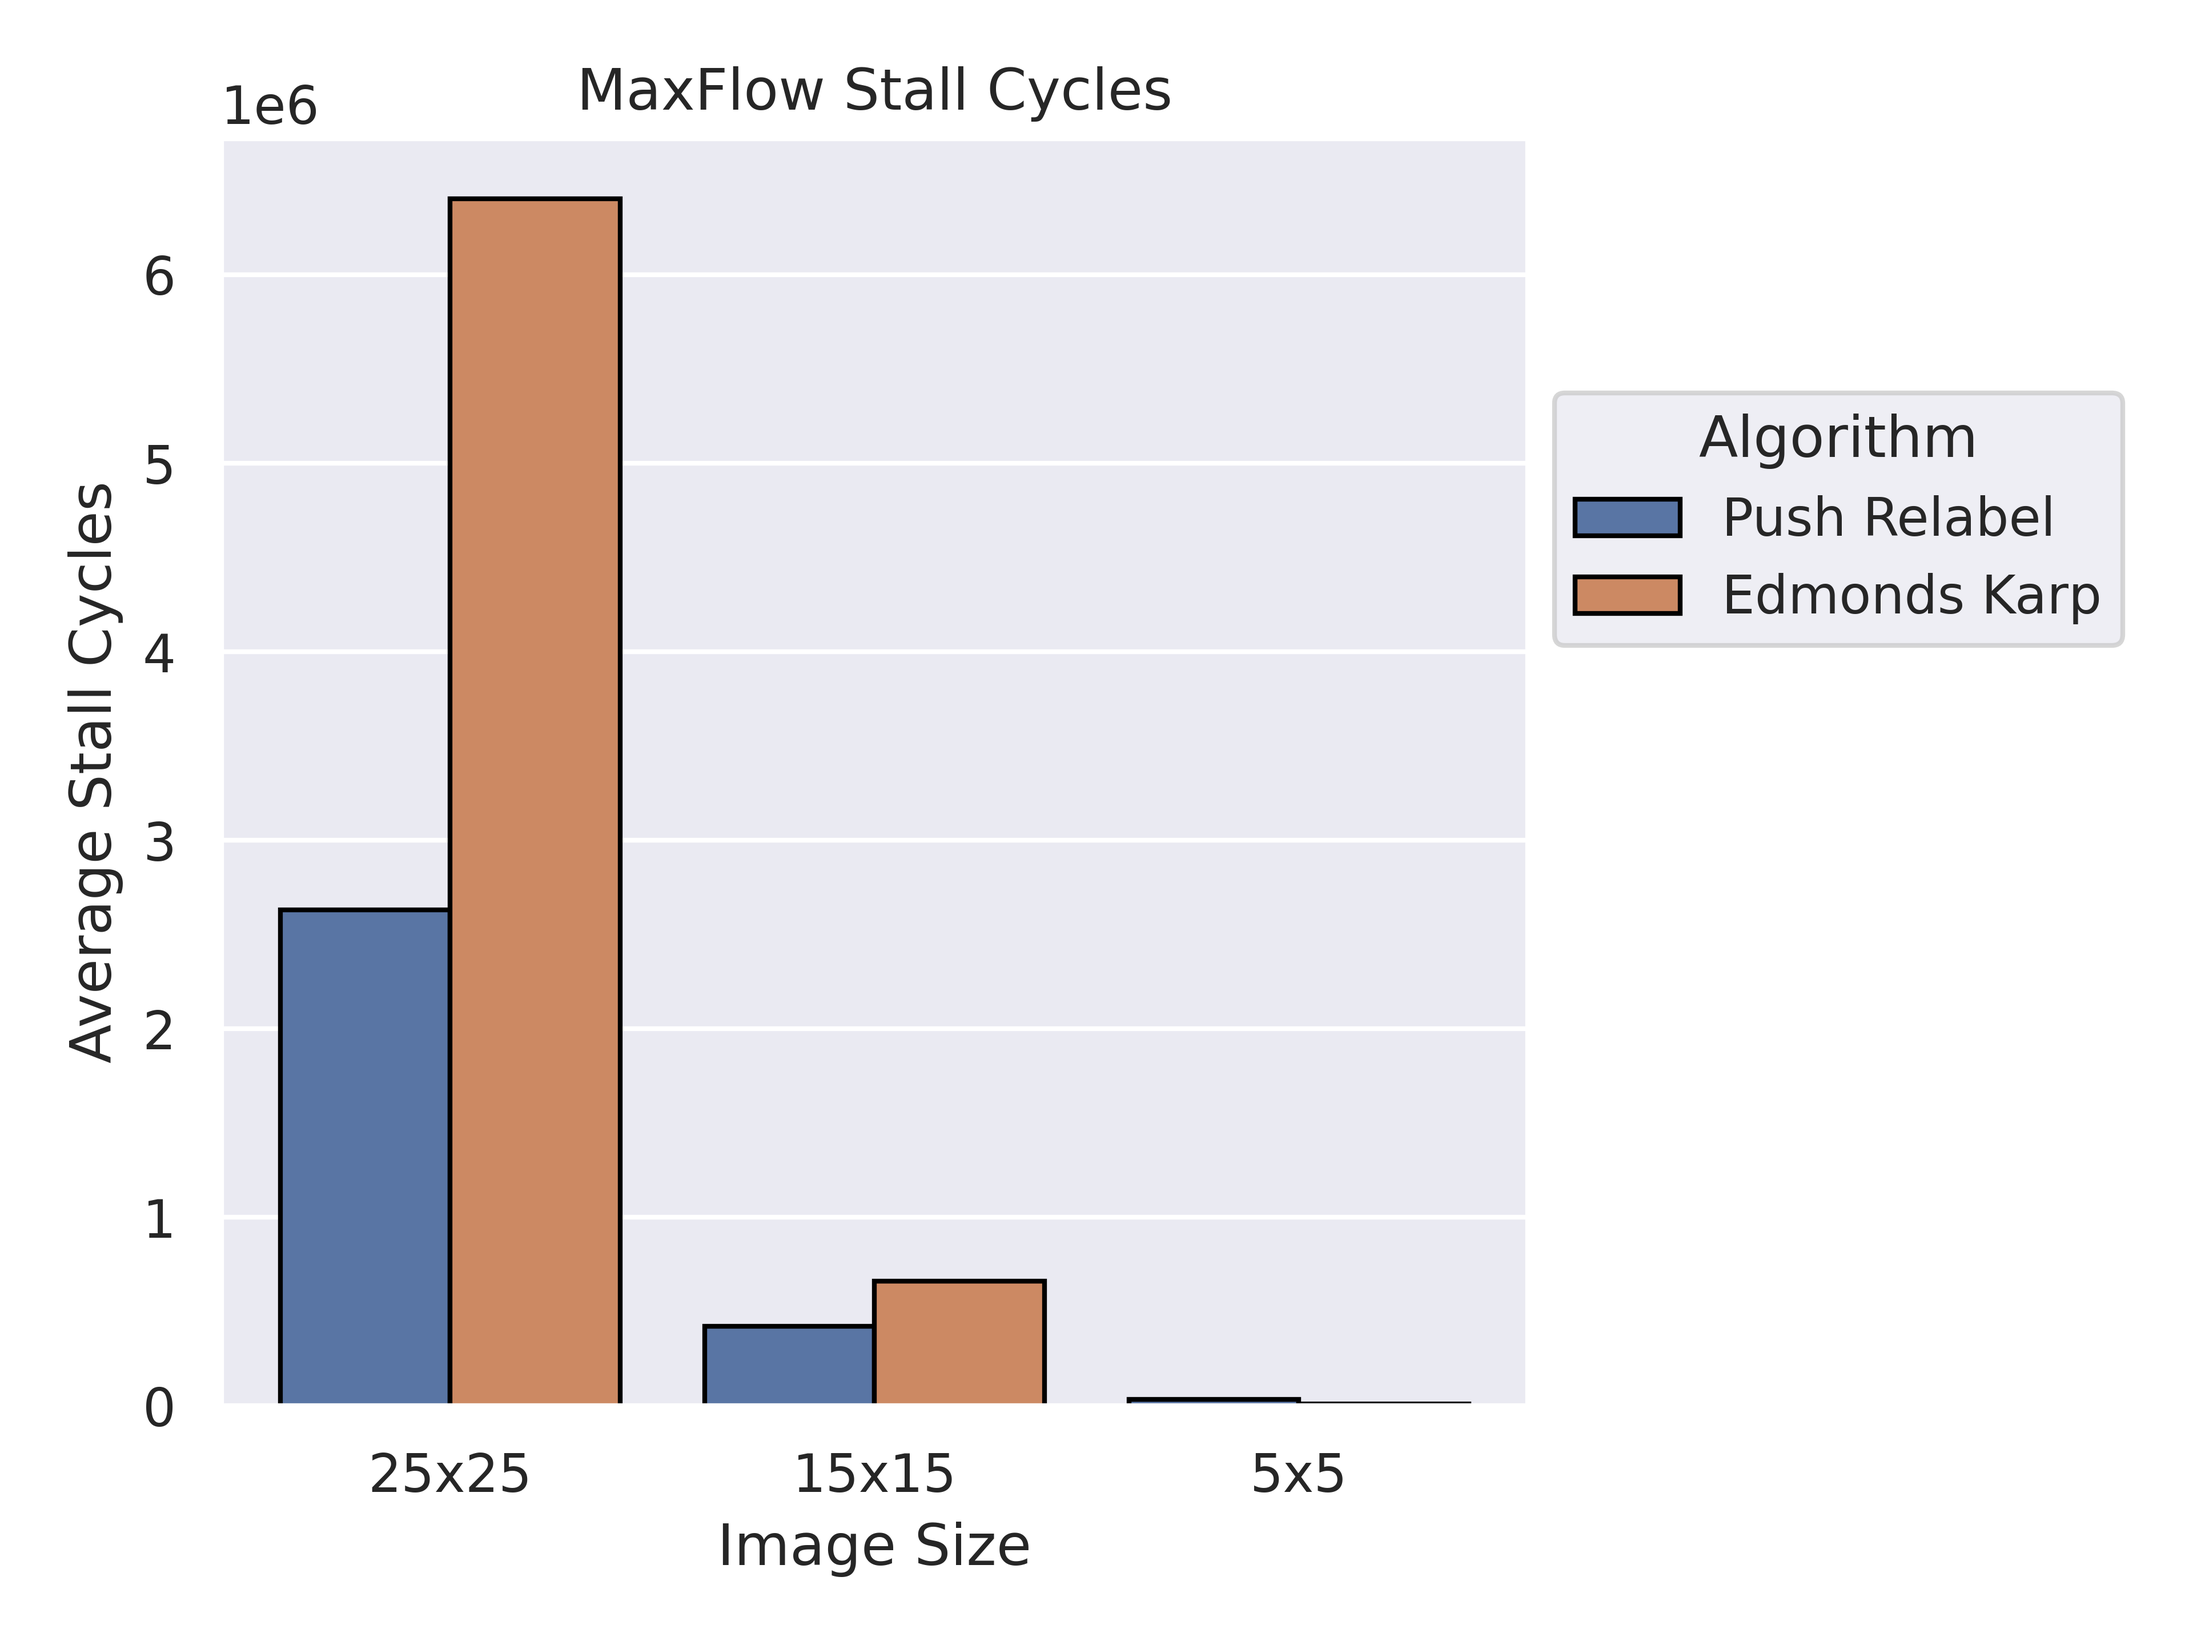
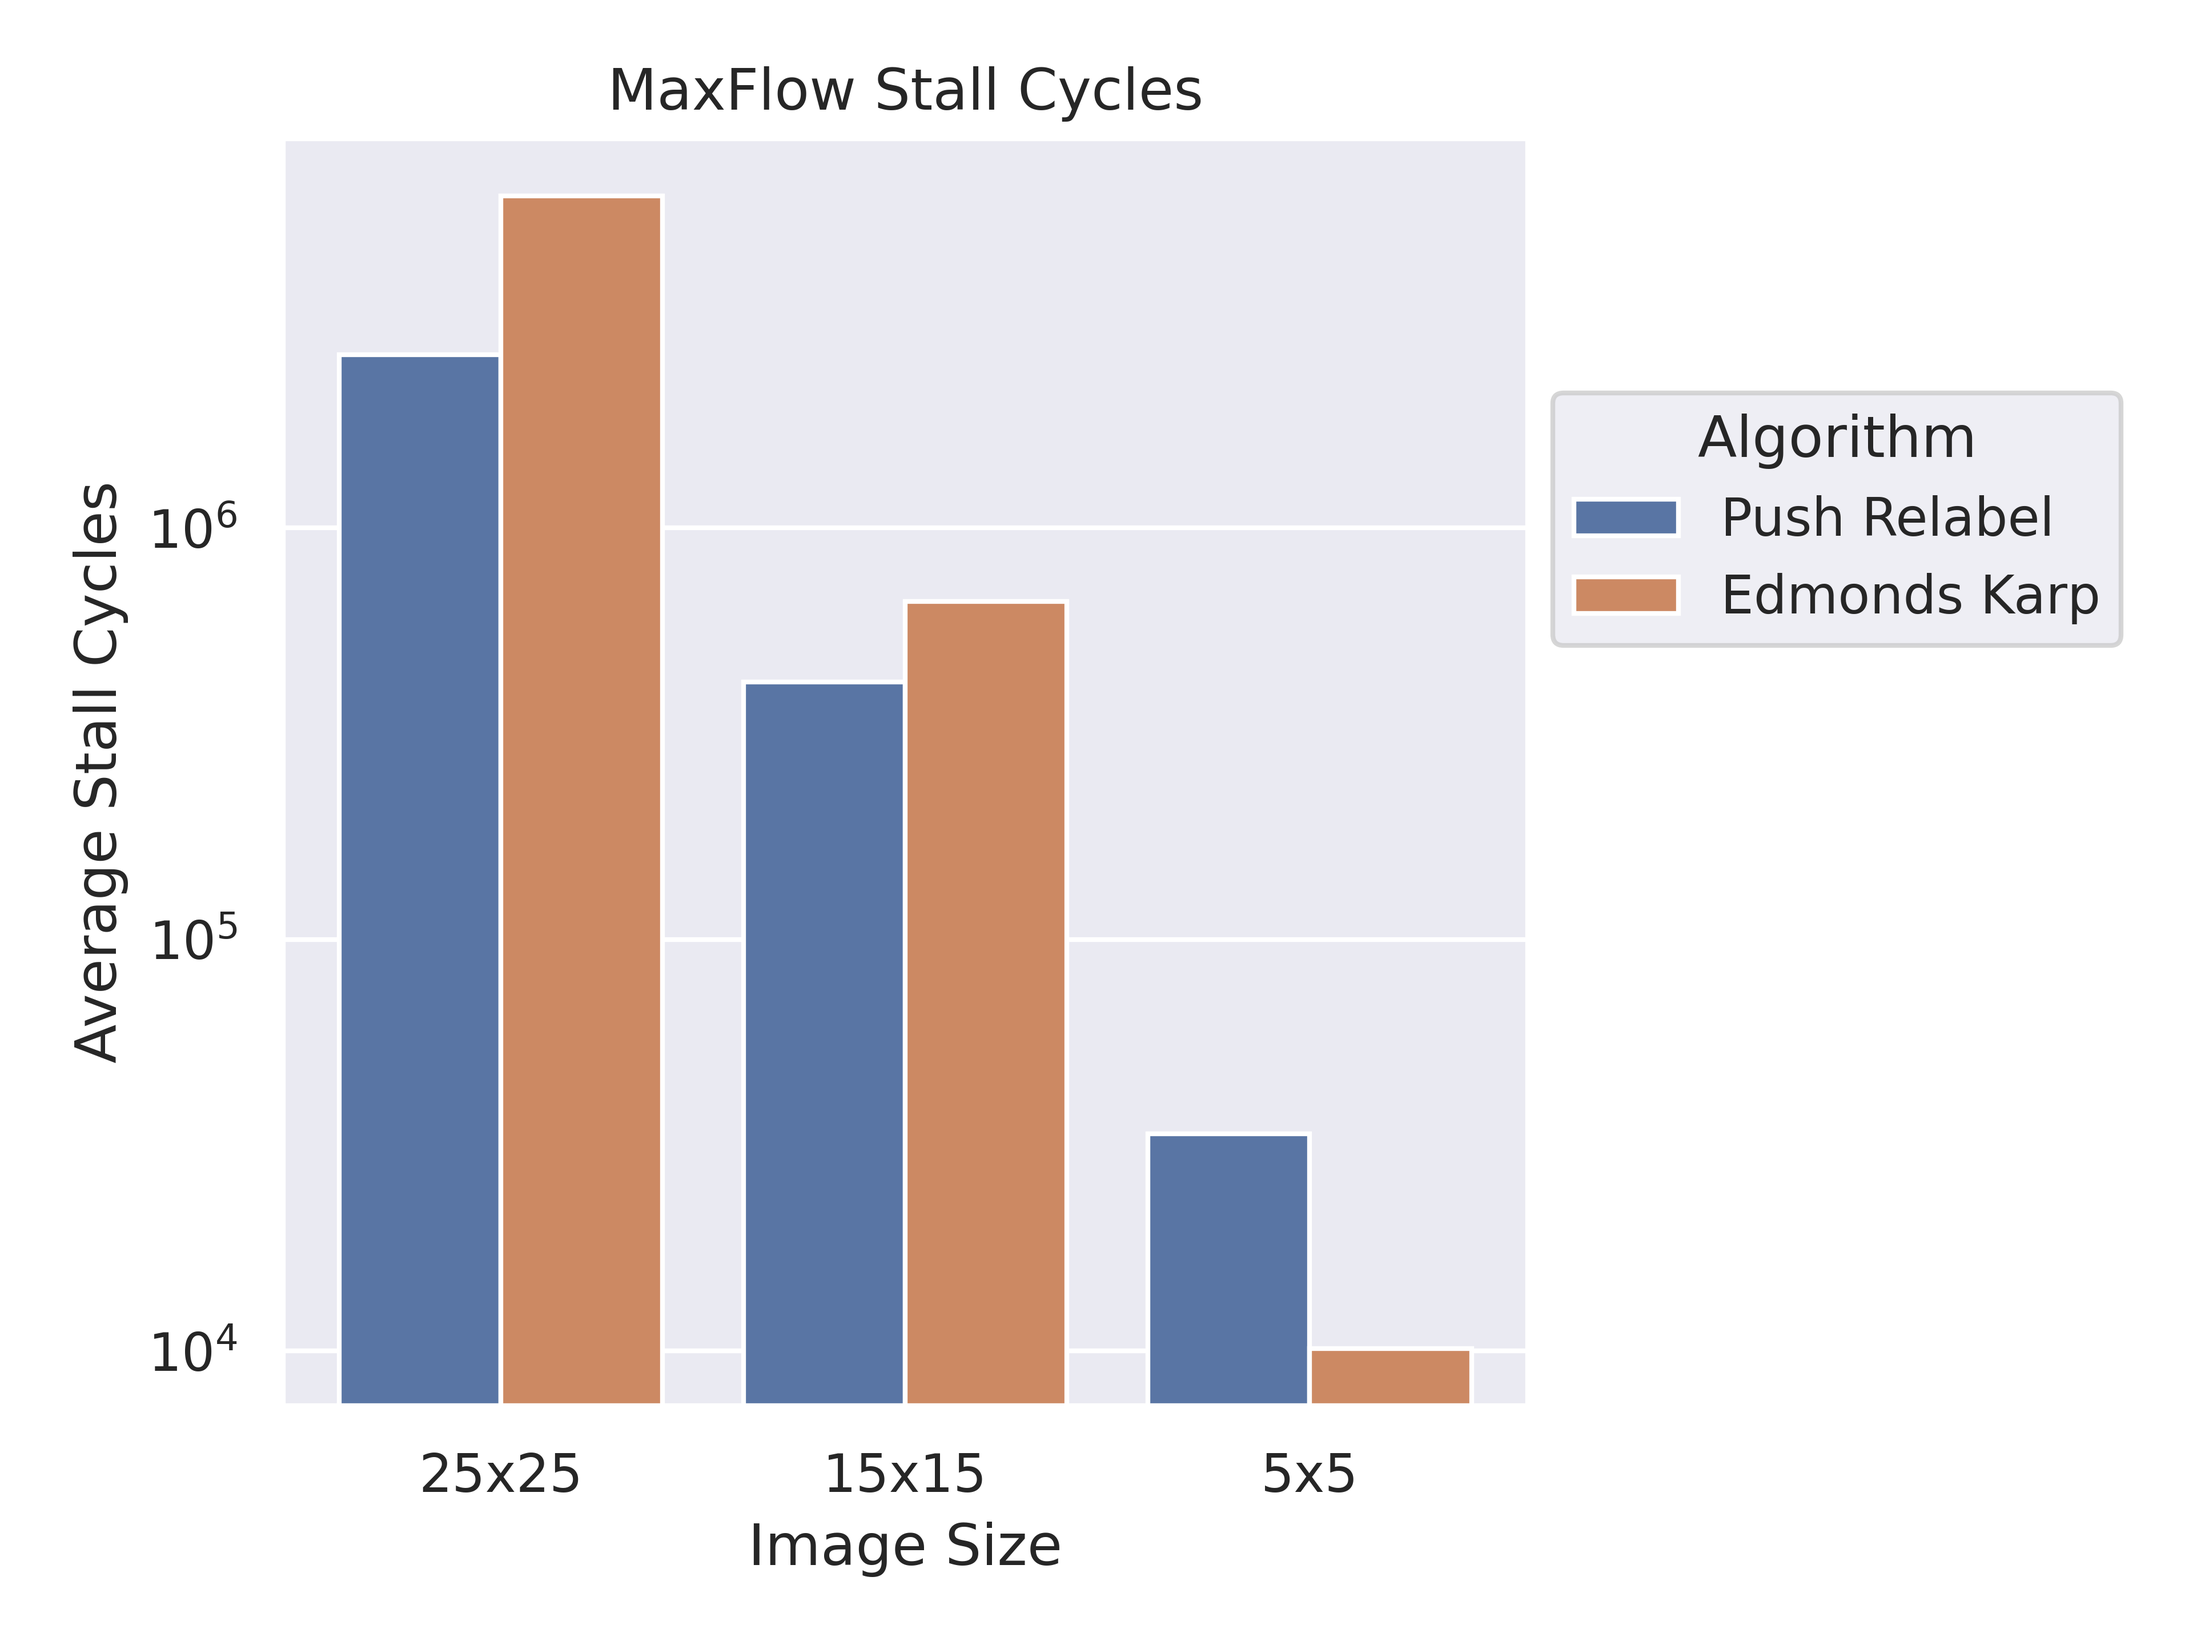
changed plots to logscale

diff --git a/plots.py b/plots.py
@@ -95,7 +95,8 @@ def performance_plots():
     print(df_average_rows)
 
     plt.figure()
-    fig = sea.barplot(x='Image Size', y='Average Runtime Cycles', data=df_average_rows, hue="Algorithm", edgecolor="black", ci=None)
+    fig = sea.barplot(x='Image Size', y='Average Runtime Cycles', data=df_average_rows, hue="Algorithm", ci=None)
+    fig.set_yscale("log")
     plt.title("MaxFlow Runtime Performance")
     fig.legend(loc=(1.02, 0.6), title="Algorithm")
     plt.tight_layout()
@@ -116,7 +117,8 @@ def stall_cycle_plots():
     print(df_average_rows)
 
     plt.figure()
-    fig = sea.barplot(x='Image Size', y='Average Stall Cycles', data=df_average_rows, hue="Algorithm", edgecolor="black", ci=None)
+    fig = sea.barplot(x='Image Size', y='Average Stall Cycles', data=df_average_rows, hue="Algorithm", ci=None)
+    fig.set_yscale("log")
     plt.title("MaxFlow Stall Cycles")
     fig.legend(loc=(1.02, 0.6), title="Algorithm")
     plt.tight_layout()
@@ -137,7 +139,8 @@ def energy_plots():
     print(df_average_rows)
 
     plt.figure()
-    fig = sea.barplot(x='Image Size', y='Average Total Energy', data=df_average_rows, hue="Algorithm", edgecolor="black", ci=None)
+    fig = sea.barplot(x='Image Size', y='Average Total Energy', data=df_average_rows, hue="Algorithm", ci=None)
+    fig.set_yscale("log")
     plt.gca().yaxis.set_major_formatter(FormatStrFormatter("%dmW"))
     plt.title("MaxFlow Energy Usage")
     fig.legend(loc=(1.02, 0.6), title="Algorithm")
